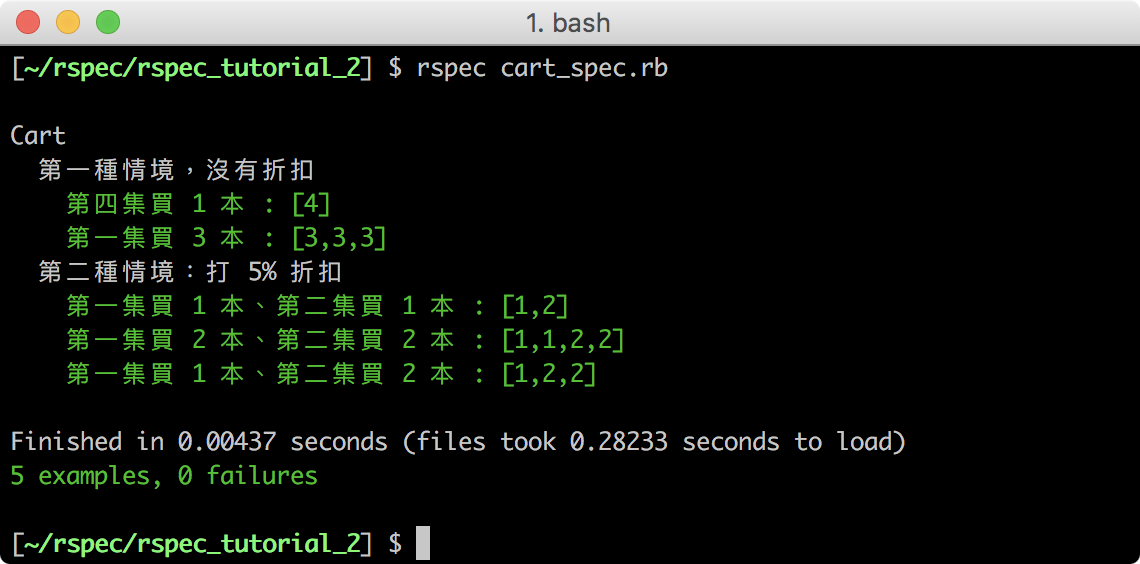
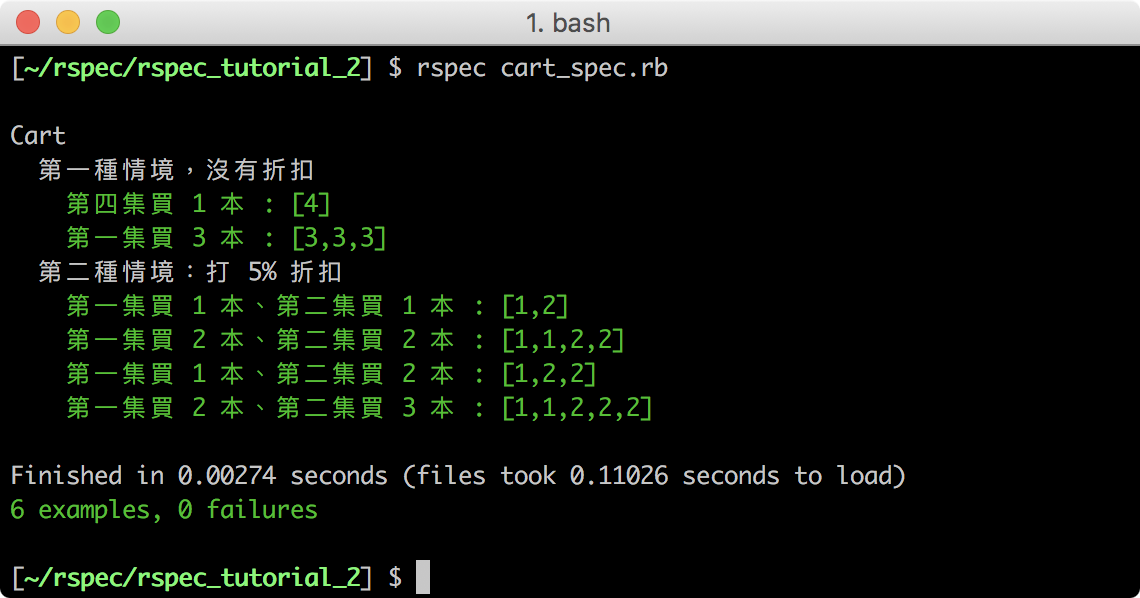
- edit content in describing question and test case to be more friendly

diff --git a/01-Testing with RSpec/Testing with RSpec 05 - RSpec 練習（2）：波特賣書.md b/01-Testing with RSpec/Testing with RSpec 05 - RSpec 練習（2）：波特賣書.md
@@ -6,7 +6,7 @@
 
 ### 波特賣書（Potter Kata） 題目說明
 
-有一家書店在賣哈利波特系列的書籍，共有五集的哈利波特，每一本哈利波特定價為 $100 元，為了推廣哈利波特，書店訂定了以下優惠：
+有一家書店在賣哈利波特系列的書籍，共有五集的哈利波特，每一本哈利波特定價為 100 元，為了推廣哈利波特，書店訂定了以下優惠：
 
 - 購買兩本不同集的哈利波特可以打 5% 折扣
 - 購買三本不同集的哈利波特可以打 10% 折扣
@@ -15,33 +15,47 @@
 
 因此，我們要來寫出一個可以計算出書籍總價的函式。
 
+#### 輸入函式的資料：陣列
+
+這個函式會輸入一個代表書籍的陣列，如： `[1,2,2,2]` 表示有 1 本第一集和 3 本第二集的哈利波特。
+
+#### 函式輸出的結果：總價
+
+陣列 `[1,2,2,2]` 經過函式演算後，由於 1 + 2 為一組，折扣 5% 後價格為 190，再加上兩本書總價為 200，產出的結果會是 190 + 200 = 390 元。
+
 ### 設計波特買書的測試案例
 
 依照題目的描述，我們先處理兩個比較簡單的情境：不打折和打 5% 折扣的情境。
 
 #### 情境一：不打折
 
-若客戶只購買其中一集的哈利波特，則總價不打折；而購買其中一集的情境，又可以區分成只購買一集 1 本和一集多本，因此測試案例會如下所示：
+若客戶只購買其中一集的哈利波特，則總價不打折，購買其中一集的情境，主要分成兩種：
+- 只買一集 1 本
+- 買一集但多本
 
-| 書籍 | 數量 | 總價  |  
-|---|---|---|
-| 第一集 | 1 | 100 |
-| 第一集 | 3 | 300 |
+依照上面的情境，測試案例會如下所示：
+
+|情境| 書籍 | 數量 | 總價  |  
+|---|---|---|---|
+| 只買 1 集 1 本| 第一集 | 1 | 100 |
+| 買一集，但多本 | 第一集 | 3 | 300 |
 
 #### 情境二：打 5% 折扣
 
-若客戶購買兩本不同集的哈利波特，則會打 5% 的折扣；而購買兩集打折的測試案例，可以有三種，若兩本不同集的哈利波特為一組，三種測試案例會分別是：
+若客戶購買兩本不同集的哈利波特，則會打 5% 的折扣，若兩本不同集的哈利波特為一組，那麼測試案例會有四種：
 - 買一組：1 本第一集、1 本第二集的哈利波特
+- 買多組：2 本第一集、2 本第二集的哈利波特
 - 買一組 + 一本：1 本第一集、2 本第二集的哈利波特
-- 買兩組：2 本第一集、2 本第二集的哈利波特
+- 買多組 + 一本：2 本第一集、3 本第二集的哈利波特
 
 其透過函式計算出的總價應如下表所示：
 
-| 項目 | 公式 | 總價 |  
+| 書籍組合 | 公式 | 總價 |  
 |---|---|---|
-| 1 本第一集、1 本第二集 |( 100 + 100 ) * 0.95 | 190 |
-| 2 本第一集、2 本第二集 |( 200 + 200 ) * 0.95 |380 |
+| 1 本第一集、1 本第二集 | ( 100 + 100 ) * 0.95 | 190 |
+| 2 本第一集、2 本第二集 | ( 200 + 200 ) * 0.95 | 380 |
 | 1 本第一集、2 本第二集 | ( 100 + 100 ) * 0.95 + 100 | 290 |
+| 2 本第一集、3 本第二集 | ( 200 + 200 ) * 0.95 + 100 | 480 |
 
 其他情境的測試案例可以此類推，讓我們來運用 Red-Green-Refractor 循環來完成上述測試案例和程式功能，過程中請謹記以下三個準則:
 - 請先寫好測試案例，才開始實作程式功能
@@ -125,7 +139,7 @@ end
 ```
 _Path: spec/cart_spec.rb_
 
-小撇步：你可以在 `it` 內的字串寫上你輸入的資料，這樣在測試時會更容易檢索自己輸入了什麼資料，如第一個測試案例的 `it`：`第一集買 1 本 : [4]`。
+小撇步：你可以在 `it` 內的字串寫上你輸入的資料，這樣在測試時會更容易檢索自己輸入了什麼資料，如第一個測試案例的 `it`：`第一集買 1 本 : [1]`。
 
 #### 撰寫計算程式
 
@@ -187,6 +201,11 @@ describe Cart do
     it "第一集買 1 本、第二集買 2 本 : [1,2,2]" do
       @cart.add([1,2,2])
       expect(@cart.calculate).to eq(290)
+    end
+
+    it "第一集買 2 本、第二集買 3 本 : [1,1,2,2,2]" do
+      @cart.add([1,1,2,2,2])
+      expect(@cart.calculate).to eq(480)
     end
 
   end
@@ -251,7 +270,7 @@ _Path: lib/cart.rb_
 
 請執行 `rspec cart_spec.rb` 指令測試你的程式碼，確認結果全為綠色。
 
-![IM2](images/0105-2.png)
+ ![Image](images/0105-2.png)
 
 ### 小結
 

diff --git a/01-Testing with RSpec/Assignment.md b/01-Testing with RSpec/Assignment.md
@@ -1,6 +1,6 @@
 Q1:
 
-請延續波特買書（Potter Kata）的題目，完成「三本不同集的書打 10% 折扣」的測試案例與測試程式：
+請延續波特買書（Potter Kata）的題目，完成「三本不同集的書打 10% 折扣」的測試案例與測試程式。
 
 - Cover 請放上執行完 rspec 指令後，全部測試案例通過的截圖。
 - 請在 GitHub 欄位裡輸入 GitHub 網址
@@ -8,7 +8,7 @@ Q1:
 
 Q2:
 
-請延續波特買書（Potter Kata）的題目，完成「四本不同集的書打 15% 折扣」的測試案例與測試程式：
+請延續波特買書（Potter Kata）的題目，完成「四本不同集的書打 15% 折扣」的測試案例與測試程式。
 
 - Cover 請放上執行完 rspec 指令後，全部測試案例通過的截圖。
 - 請在 GitHub 欄位裡輸入 GitHub 網址
@@ -30,7 +30,7 @@ Q4:
 
 例子：若輸入 [1,2,2,3,3,3,4,10]，回傳 5。
 
-題目出處：https://leetcode.com/problems/remove-duplicates-from-sorted-array/description/
+在撰寫測試案例時，請記得在你的 it 內寫上你會輸入的陣列和回傳的結果。
 
 - Cover 請放上執行完 rspec 指令後，全部測試案例通過的截圖。
 - 請在 GitHub 欄位裡輸入 GitHub 網址

diff --git a/01-Testing with RSpec/Testing with RSpec 03 - RSpec 練習（1）：reverse integer.md b/01-Testing with RSpec/Testing with RSpec 03 - RSpec 練習（1）：reverse integer.md
@@ -36,9 +36,12 @@ Red-Green-Refractor 循環是一種實作測試的流程，在上個單元使用
 #### 依情境設計測試案例
 
 讓我們來為三個情境設計測試案例：
-- 正整數：如果整數為 123，結果為 321
-- 負整數：如果整數為 -104，結果為 -401
-- 超出範圍：如果整數為 2147483650，結果為 0
+
+|情境| 傳入資料 | 預期結果   |
+|-|----------|------------|
+|反轉正整數| 123        | 321  |
+|反轉負整數| -104       | -401 |
+|超出範圍  | 2147483650 | 0  |
 
 ### 撰寫測試程式
 
